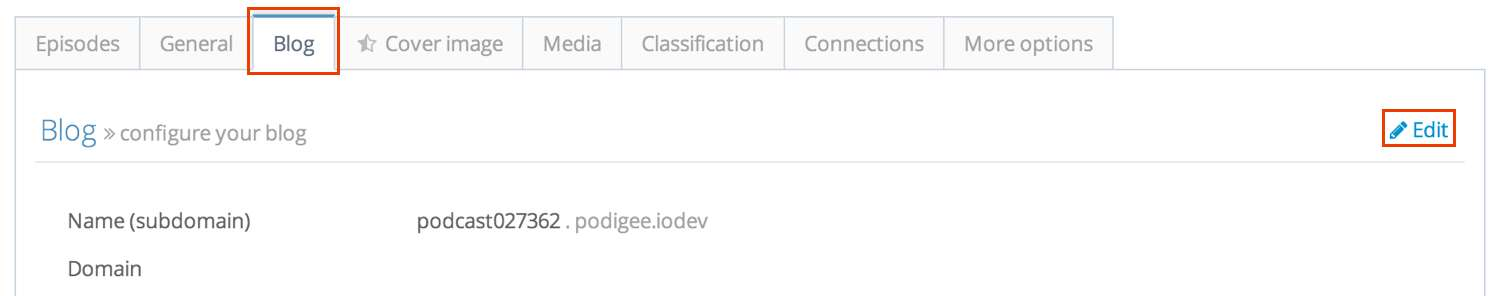
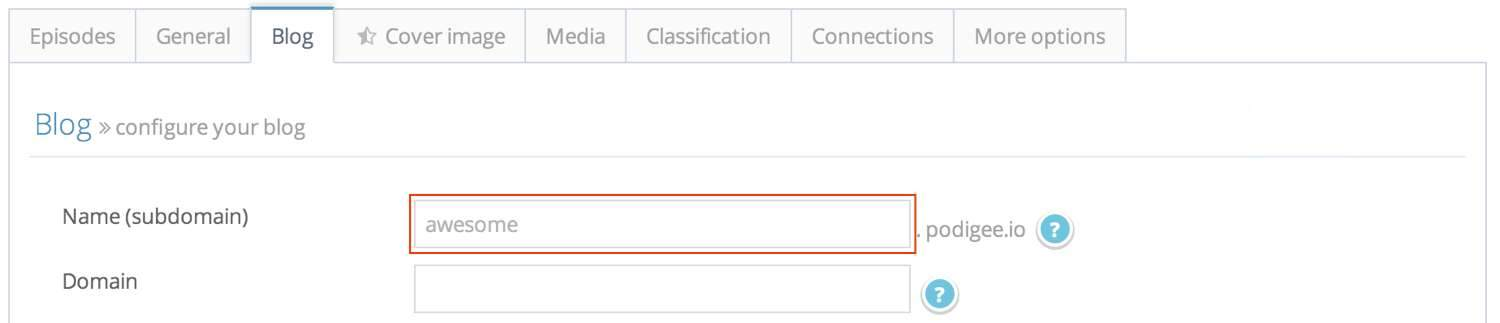
adapt domain docs to new editing interface

diff --git a/guides/podcasts/domains.md b/guides/podcasts/domains.md
@@ -4,7 +4,7 @@ layout: en
 permalink: domains/
 wip: false
 sitemap:
-  lastmod: 2013-11-17
+  lastmod: 2013-12-10
 ---
 
 <p class="lead">
@@ -21,15 +21,11 @@ The part between _http://_ and  _.podigee.io_ can be configured by you in the po
 
 To do this go to <a href="https://www.podigee.com/podcasts" target="_blank">https://www.podigee.com/podcasts</a> and click on the name of the podcast you want to edit.
 
-Then go to the Blog-Tab and click **Edit**.
+Then go to the Blog-Tab and select all the text in the **Name (subdomain)** field and enter your desired subdomain name. Just click outside of the field to save the setting.
 
 ![image](/images/guides/podcast-domain-1.jpg)
 
-Next, select all the text in the **Name (subdomain)** field and enter your desired subdomain name.
-
-![image](/images/guides/podcast-domain-2.jpg)
-
- This can be any combination of letters, numbers and dashes. Any other kind of special characters will not be allowed. So ```my-awesome-podcast``` is OK while ```my.awesome.podcast``` is **not** because it contains dots. When you're finished, click **Save** and enjoy your new (sub)domain.
+This can be any combination of letters, numbers and dashes. Any other kind of special characters will not be allowed. So ```my-awesome-podcast``` is OK while ```my.awesome.podcast``` is **not** because it contains dots. When you're finished, click **Save** and enjoy your new (sub)domain.
 
 ## Use an own domain
 
@@ -51,13 +47,9 @@ Find specific instructions for each domain configuration below.
 
 To get started go to <a href="https://www.podigee.com/podcasts" target="_blank">https://www.podigee.com/podcasts</a> and click on the name of the podcast you want to edit.
 
-Then go to the Blog-Tab and click **Edit**.
+Then go to the Blog-Tab and enter your domain name into the **Domain** field. Just click outside of the field to save the setting.
 
-![image](/images/guides/podcast-domain-1.jpg)
-
-Next, enter your domain name into the **Domain** field.
-
-![image](/images/guides/podcast-domain-3.jpg)
+![image](/images/guides/podcast-domain-2.jpg)
 
 ### Adding a subdomain of your domain
 
